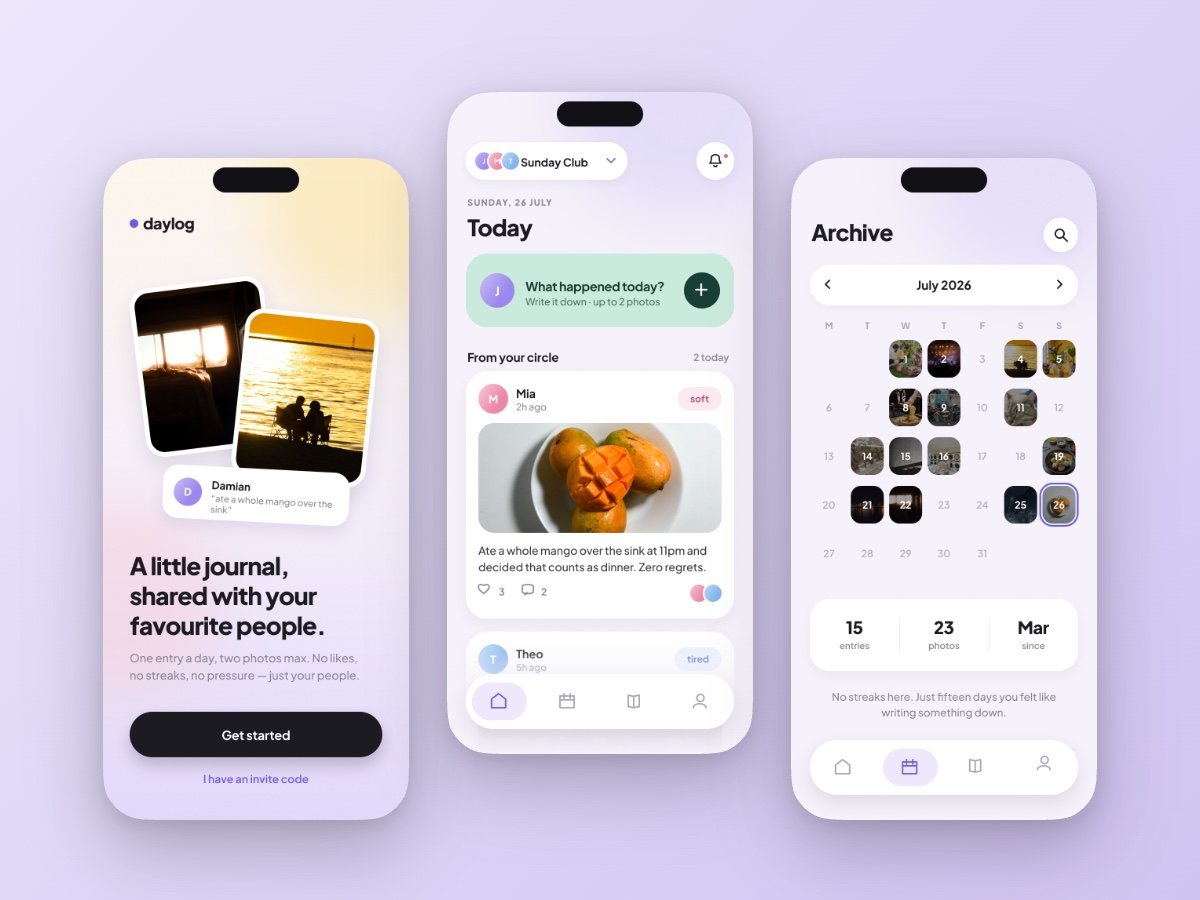
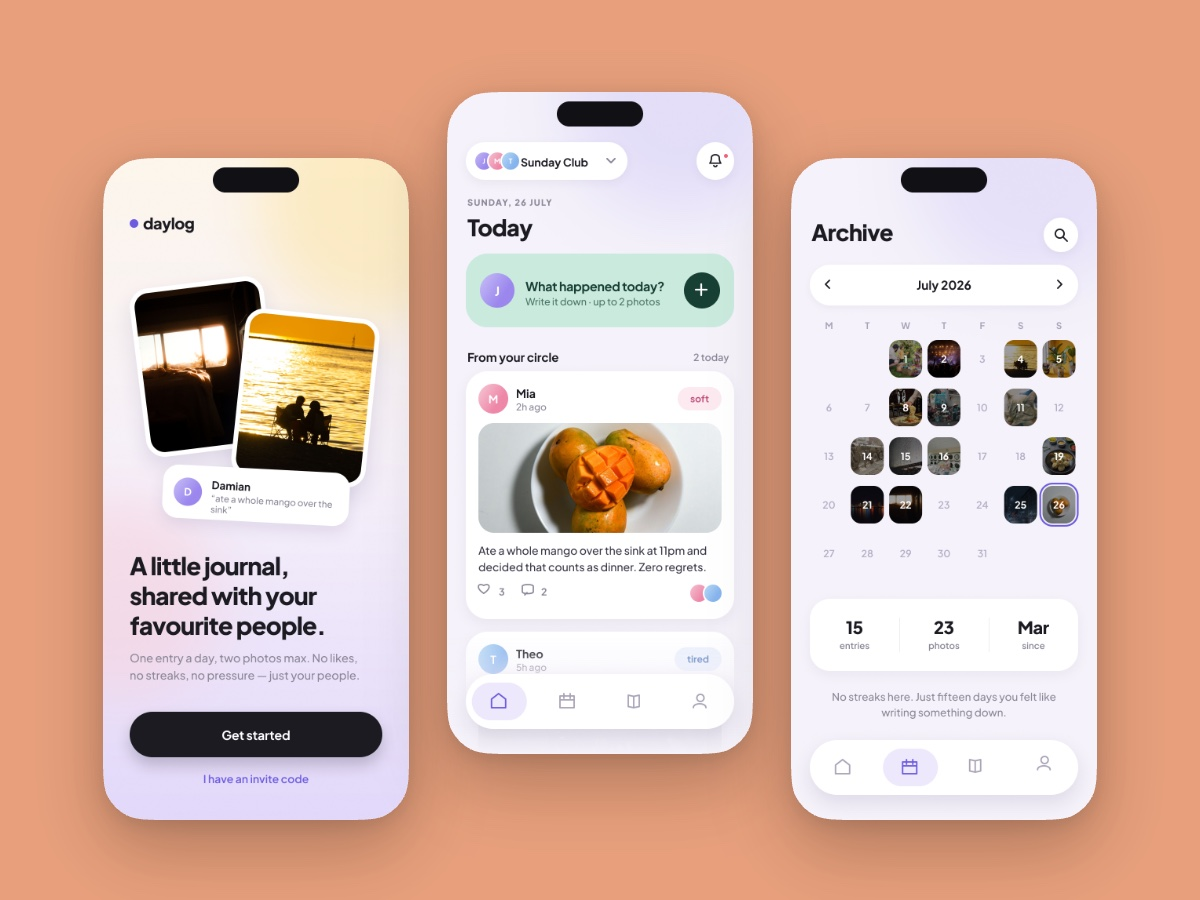
New Domino's and Jackalope thumbnails, Daylog on warm peach
- Domino's and Jackalope cards use Jay's own thumbnail designs
- Daylog screens and card thumbnail sit on warm peach for contrast
  with the light lavender screens

diff --git a/side-projects.html b/side-projects.html
@@ -61,7 +61,7 @@
         <li class="proj">
           <a href="dominos.html" class="proj__link">
             <div class="proj__img side-card__img side-card__img--photo">
-              <img src="assets/side/thumbs/dominos.jpg?v=5" alt="" width="1200" height="900" loading="lazy" decoding="async">
+              <img src="assets/side/thumbs/dominos.jpg?v=6" alt="" width="1200" height="900" loading="lazy" decoding="async">
             </div>
             <span class="side-pill">App redesign</span>
             <h3 class="proj__title">Domino&rsquo;s App Redesign</h3>
@@ -71,7 +71,7 @@
         <li class="proj">
           <a href="jackalope.html" class="proj__link">
             <div class="proj__img side-card__img side-card__img--photo">
-              <img src="assets/side/thumbs/jackalope.jpg?v=5" alt="" width="1200" height="900" loading="lazy" decoding="async">
+              <img src="assets/side/thumbs/jackalope.jpg?v=6" alt="" width="1200" height="900" loading="lazy" decoding="async">
             </div>
             <span class="side-pill">UX research</span>
             <h3 class="proj__title">Jackalope</h3>
@@ -81,7 +81,7 @@
         <li class="proj">
           <a href="daylog.html" class="proj__link">
             <div class="proj__img side-card__img side-card__img--photo">
-              <img src="assets/side/thumbs/daylog.jpg?v=6" alt="" width="1200" height="900" loading="lazy" decoding="async">
+              <img src="assets/side/thumbs/daylog.jpg?v=7" alt="" width="1200" height="900" loading="lazy" decoding="async">
             </div>
             <span class="side-pill">Vibe-coded app</span>
             <h3 class="proj__title">Daylog</h3>

diff --git a/daylog.html b/daylog.html
@@ -54,7 +54,7 @@
     </header>
     <section class="shell section--first side" id="showcase">
       <figure class="side-fig side-fig--lead reveal" data-delay="1">
-        <img src="assets/side/daylog/screens-a.jpg?v=4" width="1800" height="947" loading="lazy" decoding="async" data-zoom data-cursor-label="Enlarge" alt="Four Daylog screens: welcome, choosing a circle, creating Sunday Club with an invite code, and the home feed.">
+        <img src="assets/side/daylog/screens-a.jpg?v=7" width="1800" height="918" loading="lazy" decoding="async" data-zoom data-cursor-label="Enlarge" alt="Four Daylog screens: welcome, choosing a circle, creating Sunday Club with an invite code, and the home feed.">
         <figcaption class="cs-image__caption">Welcome, your circle, invite friends, home feed</figcaption>
       </figure>
     </section>
@@ -75,7 +75,7 @@
         </div>
       </div>
       <figure class="side-fig  reveal" data-delay="1">
-        <img src="assets/side/daylog/screens-b.jpg?v=4" width="1800" height="947" loading="lazy" decoding="async" data-zoom data-cursor-label="Enlarge" alt="Four more screens: compose an entry, an entry with replies, the archive calendar, and a profile.">
+        <img src="assets/side/daylog/screens-b.jpg?v=7" width="1800" height="918" loading="lazy" decoding="async" data-zoom data-cursor-label="Enlarge" alt="Four more screens: compose an entry, an entry with replies, the archive calendar, and a profile.">
         <figcaption class="cs-image__caption">Compose, entry detail, archive, profile</figcaption>
       </figure>
     </section>

diff --git a/CLAUDE.md b/CLAUDE.md
@@ -109,6 +109,8 @@ Jay is a product/interaction designer, not primarily an engineer. Explain techni
 
 **More side projects** (16 Nov 2026, Jay's request: "briefly, just enough for the side project page"). Side projects is grouped into three categories (`section.side-cat`, heading plus one line): Product & app design (Domino's, Jackalope, Daylog), Interaction & motion (Digital Macro Switch, Hojicha Mascot), Spatial & graphic (Sculpture Pavilion, Posters). Each card carries a small `.side-pill` naming the kind of work (App redesign, UX research, Vibe-coded app, Mac app, Character & motion, Spatial design, Graphic design); photo thumbnails (`assets/side/thumbs/`) fill their tile (`.side-card__img--photo`). The five new pages share one layout (back link, hero, lead image, `.spec` groups, `.side-grid` image grids, `.side-fig` with click-to-enlarge, "Next side project" chain: switch, hojicha, dominos, jackalope, daylog, pavilion, posters, back to switch). Sources: **Domino's** from the Portfolio Figma page "domino — 2026 redesign" (659:1065: four flow sections exported to `assets/side/dominos/flow-1..4.jpg`; the problem is drawn from the four App Store reviews in its "Frame 1" case study, 669:481; framed as a personal concept, not affiliated); **Jackalope** from the old case study kept in `.verbose-backup/jackalope/` and its images (its unsourced "96% reported loneliness" stat was left out); **Daylog** from the CREATIVE SPACE Figma page "Journal App" (1053:5), Jay calls it a vibe-coded app; **Sculpture Pavilion** restructured on the web from the IAT 233 poster (88:8): its renders and sketches as separate images and its long concept text cut to four groups (Figma not edited); **Posters** from Graphic Experimentation (101:1014 Vitra "Crescent Moon", 586:43 and 591:667 Schiphol colourways), shown with 4px corners. Pages use `body.page-side` (dark, lamp). Before: `.verbose-backup/before-more-side/`.
 
+**Jay's own Domino's and Jackalope thumbnails (17 Nov 2026):** `thumbs/dominos.jpg` and `thumbs/jackalope.jpg` (`?v=6`) are Jay's designs (Domino's: two floating iPhones on dark red; Jackalope: the mascot and wordmark on blue), exported by Jay at 4800x3600 PNG and saved as 1200x900 JPEG. They replace the composed squircle thumbnails described below; don't recompose them. Before: `.verbose-backup/before-new-thumbs/`.
+
 **Side project thumbnails and the Jackalope redesign** (16 Nov 2026, Jay: custom presentable thumbnails, no sloppy white borders, fix Jackalope's inconsistent screens). Card thumbnails in `assets/side/thumbs/` (`?v=4`) are composed in headless Chrome: Domino's, Daylog and Jackalope are three phone screens exported at 2x from Figma (Domino's 660:1198, 660:1497, 660:1884; Daylog 1053:7, 1053:10, 1053:13; Jackalope's redesigned Discover, Event detail, Group chat), rounded and shadowed on a soft gradient in the app's own colour (cream, lavender, Jackalope blue); Posters is the three posters at equal heights on light grey; Pavilion is a 4:3 crop of the exterior render. White margins were trimmed from the pavilion renders and the Schiphol posters (`?v=2`). Jackalope was redesigned in Jay's Portfolio Figma (page 447:38): section 673:143 "Jackalope · redesigned (consistent system)" has one status bar and a five-tab bar component (lucide icons), Inter, brand blue #0094E7, ink #0B1B2B, 30pt titles, consistent cards and chips, no emoji titles, and seven screens (Create profile, Discover, Saved, Event detail, Messages, Group chat, Profile); section 671:143 holds an untouched copy of the originals. Its exports are `assets/side/jackalope/v2/` (hero, onboard, chat, thumb). Before: `.verbose-backup/before-thumbs/`, `.verbose-backup/before-more-side/`.
 
 **The lamp** (16 Nov 2026, Jay's idea): main.js prepends `.lamp-room` to `body.page-side` pages: an SVG pendant lamp (cord, dark metal shade with a highlight, lit inside, bulb, blurred halo) hanging from the top centre (smaller, 84px, at 720px and below; centred on phones too, at Jay's request), plus `.lamp-light`, a downward cone of warm light (Jay asked for a cone with minimal bloom): a `conic-gradient` with soft 14-degree edges and sides about 40 degrees off vertical, its point hidden just above the shade's rim so the beam starts exactly the opening's width, faded with distance by a vertical `mask-image`; no glow above or behind the shade. The bulb (r 12) sits entirely inside the shade's opening: it's clipped to the opening's oval inset past the rim line's width (rx 63.5, ry 14 inside the rx 66, ry 16 rim) and drawn after both rim arcs, so no rim line can ever cross it. Jay saw the rim line drawn over the bulb twice; never let the bulb poke past the opening or draw a rim line after it. If the opening's oval changes, change the clip with it. It switches on 0.9s after arrival with a filament flicker (`lamp-on` keyframes, 1.1s; the bulb and shade interior warm via SVG `stop` colours); under reduced motion it's simply on. The layer is absolute, 1900px tall, `z-index: -1`, so `body.page-side` has a transparent background and the html carries the dark colour. Decorative, `aria-hidden`. The product cards and the project pages' demo panels stay hidden in the dark until the bulb has settled (Jay, 16 Nov 2026): each side page's <head> adds `html.lamp-wait` (so they're hidden from the first frame, with a 4s failsafe), main.js adds `lamp-lit` 1.4s in (0.9s switch-on plus 0.5s, when the flicker reaches full strength; was 2s until 17 Nov 2026, Jay found it late), and they rise 24px and fade in over 0.9s, cards 0.15s apart; under reduced motion they appear with the lamp. Before: `.verbose-backup/before-lamp/`.
@@ -117,7 +119,7 @@ Jay is a product/interaction designer, not primarily an engineer. Explain techni
 
 **iPhone squircle corners on every phone screen** (17 Nov 2026, Jay). Phone screens use Apple's continuous corner, not a plain radius: Figma corner smoothing 60% (iOS) at the device's radius, 62pt on 402pt screens (iPhone 17) and 55pt on 390/393pt screens. On the site, `.cs-frame--phone` (CarePath) is clipped by an SVG mask of that shape (block "iPhone squircle" at the end of `styles.css`; path made by `figma-squircle` maths for 402x874 r62), its hairline redrawn along the curve by `::after`, and its enlarge button sits 16px in to clear the curve. In Figma: the Domino's frames (Portfolio, 16 screens), the Jackalope redesign frames (Portfolio 673:143, 7 screens) and the Daylog frames (CREATIVE SPACE 1053:6, 8 screens, were 44pt) carry the corners, and their exports were redone (`dominos/flow-1..4.jpg?v=4`, `daylog/screens-a/b.jpg?v=3`, Daylog rows cut from a 2x export of the section at y 86 and 2070, 3768x1984). Jackalope's `v2/hero|onboard|chat|thumb.jpg` and the Domino's, Jackalope and Daylog card thumbnails (`thumbs/*.jpg?v=5`) are recomposed in headless Chrome with the same squircle mask and a drop shadow, on the old gradients (Jackalope light #e6f4fd to #cfe9fa, dark #005281 to #0094e6; Daylog #ece7fb to #d0c4f2); the Domino's card is now on blue #0a3550 to #14628f to match its flows. MEC and the home cards use real iPhone mockups and were left alone. Before: `.verbose-backup/before-squircle/`, `styles-before-squircle.css`.
 
-**Daylog uses real photos** (17 Nov 2026, Jay). The gradient placeholders in the Daylog screens (CREATIVE SPACE, section 1053:6: both Welcome cards, the two feed entries, Compose, Entry detail and the 15 calendar days) now hold 16 free Pexels photos (Pexels licence, no credit needed), kept in `assets/side/daylog/photos/` (named by subject; Pexels ids in the commit message or below). The mango entry uses a cut mango; calendar tiles carry a 28% black wash so their white day numbers stay readable; the placeholder blobs are hidden, not deleted. Re-exported `screens-a/b.jpg?v=4` and `thumbs/daylog.jpg?v=6`. Pexels ids: mango 38006276, night-street 11290329, coffee-window 13009039, beach-sunset 33807743, late-desk 36713440, rain-window 30667874, houseplants 7245621, noodles 34692771, cat 16664165, bike 36685923, picnic 7669127, concert 38780318, flower-stall 17111168, laundromat 2927523, skyline-dusk 20208915, dumplings 5409009.
+**Daylog uses real photos** (17 Nov 2026, Jay). The gradient placeholders in the Daylog screens (CREATIVE SPACE, section 1053:6: both Welcome cards, the two feed entries, Compose, Entry detail and the 15 calendar days) now hold 16 free Pexels photos (Pexels licence, no credit needed), kept in `assets/side/daylog/photos/` (named by subject; Pexels ids in the commit message or below). The mango entry uses a cut mango; calendar tiles carry a 28% black wash so their white day numbers stay readable; the placeholder blobs are hidden, not deleted. Re-exported `screens-a/b.jpg?v=4` and `thumbs/daylog.jpg?v=6`. The screens now sit on warm peach #E8A07C with warm soft shadows (Jay picked it after disliking a violet gradient, 17 Nov 2026; `screens-a/b.jpg?v=7`, section 1053:6 also peach; the card thumbnail `thumbs/daylog.jpg?v=7` is recomposed on the same flat peach). Earlier, briefly: a gradient (Jay: "make it premium", 17 Nov 2026): linear #3D2F94 to #2A2068 to #17103A with a lavender glow top left, a faint peach glow bottom right and soft drop shadows under each phone; it is built per row in two temp frames on CREATIVE SPACE's "_video exports (temp)" page ("_daylog row a/b", 1890x964, screens 60px from the top) and exported at 2x to `screens-a/b.jpg?v=6` (1800x918), so both rows match. The section itself stays solid #2C236B. Before that the section backdrop became deep violet #2C236B (was #EFEDF3, too close to the #F5F2FA screens; Jay, 17 Nov 2026); `screens-a/b.jpg?v=5` are cut from a 2x section export (3940x4140 incl. its 80px border) at x 80, y 180 and y 2108, 3780x1928 each, saved 1800x918. Before: `.verbose-backup/before-daylog-violet/`. Pexels ids: mango 38006276, night-street 11290329, coffee-window 13009039, beach-sunset 33807743, late-desk 36713440, rain-window 30667874, houseplants 7245621, noodles 34692771, cat 16664165, bike 36685923, picnic 7669127, concert 38780318, flower-stall 17111168, laundromat 2927523, skyline-dusk 20208915, dumplings 5409009.
 
 **Side project ad videos (17 Nov 2026).** Jay asked for advert-style walkthroughs of the app side projects; only **Jackalope's is on the site** (Jay: "just use jackalope video"), as the lead of `jackalope.html`, with the three-screen hero still kept right under it (Jay: don't take the screen picture away) (`video.side-video`, controls, `preload="none"`, poster `assets/side/jackalope/ad-poster.jpg`, file `assets/side/jackalope/ad.mp4`, 1080p, 42s, about 11 MB; before: `.verbose-backup/before-jackalope-video/`). All are built in Figma Motion (keyframe tracks set through the Plugin API), music only, cut on the beat: Domino's (Portfolio page "Side project ads (motion)", frame "Domino's ad", to Masayoshi Takanaka "Brasilian Skies", 120.9 bpm) opens with three screens of the old app from the case study frame beside real App Store reviews, then the redesign; Jackalope ("Jackalope ad", to Young-Holt Unlimited "Soulful Strut", 89.55 bpm) shows interests, saving, the Ask Jackalope AI sheet and the group chat; Daylog (CREATIVE SPACE, page "Daylog ad (motion)", to Steve Lacy "oh yeah", 95.95 bpm). Highlights use a "Camera" frame around the phone that zooms and pans (scale pivots on its centre), not pieces lifted out of the screen (Jay found lifted dark pieces blended into the backdrop and the lifts repetitive). Never let two keyframes of one track share a time: Figma keeps the later one, so a "hold" there freezes the move before it. Every tap rests at least 0.6s after the last move. The **Ask Jackalope (AI)** screen is a real design in the redesigned Jackalope section (Portfolio 673:143), based on the original prototype's AI suggestions, thumbs up/down and "ask a person" fallback; its answer copy was written for the prototype. The music is commercial (from Jay's own downloads), so the Jackalope video on jayho.fyi carries some takedown risk; Jay chose to use it. Export: `export_video` at SCALE 2 (3840x2160, silent), then ffmpeg adds the track from its first beat with a 2.2s fade and loudnorm I=-16.
 
